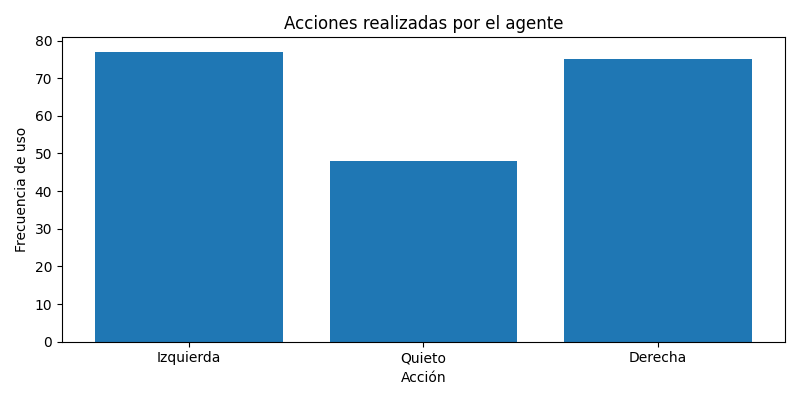
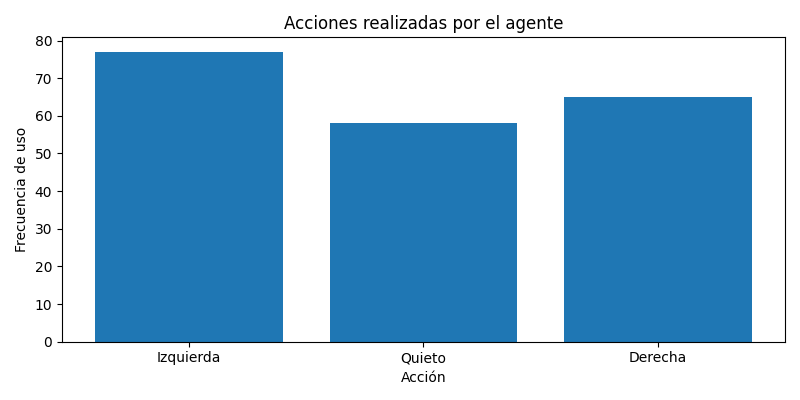
Se terminan y se revisan funconalidades

Changed region(s): [[0.4062, 0.3, 0.6562, 0.42], [0.6875, 0.15, 0.9375, 0.24]]

diff --git a/templates/indexAF.html b/templates/indexAF.html
@@ -10,7 +10,6 @@
 </head>
 
 <body class="bg-light">
-<body class="bg-light">
 
 <!-- Overlay de carga -->
 <div id="loadingOverlay" 
@@ -21,14 +20,6 @@
 </div>
 
 <div class="container py-5">
-
-    {% if mensaje %}
-    <div class="alert alert-success text-center mt-3">
-        {{ mensaje }}
-    </div>
-    {% endif %}
-
-
     <h1 class="mb-4 text-primary text-center">Caso práctico: Q-Learning en MountainCar</h1>
 
     <p class="text-center">
@@ -38,12 +29,11 @@
 
     <div class="text-center mb-4">
         <a href="/aprendizajeRF/entrenar" class="btn btn-primary" onclick="showLoader()">Entrenar agente</a>
-
         <a href="/aprendizajeRF/grafica" class="btn btn-success">Ver gráfica de recompensa</a>
         <a href="/aprendizajeRF/politica" class="btn btn-info">Probar política aprendida</a>
     </div>
 
-    {% if graph %}
+     {% if graph %}
     <div class="text-center mt-4">
         <h4>Movimientos realizados por el agente en la simulación</h4>
             <p class="text-center text-muted">
@@ -66,14 +56,13 @@
             </tr>
         </thead>
         <tbody>
-           {% for point in trajectory %}
+            {% for point in trajectory %}
 <tr>
     <td>{{ loop.index0 }}</td>
     <td>{{ point[0] }}</td>
     <td>{{ point[1] }}</td>
 </tr>
 {% endfor %}
-
         </tbody>
     </table>
     {% endif %}

diff --git a/app.py b/app.py
@@ -148,9 +148,6 @@ def af_mountaincar():
 
 
 # Acción: entrenar el agente
-# ============================================================
-# APRENDIZAJE POR REFUERZO - ENTRENAR
-# ============================================================
 @app.route('/aprendizajeRF/entrenar')
 def af_entrenar():
     train_mountaincar()      # Entrenar el modelo
@@ -165,24 +162,20 @@ def af_entrenar():
     )
 
 
-# Acción: mostrar gráficaz
+# Acción: mostrar gráfica
 @app.route('/aprendizajeRF/grafica')
 def af_grafica():
-    import os
     import matplotlib.pyplot as plt
-
-    global reward_history
-    load_reward_history()  # ESTA ES LA LÍNEA QUE FALTABA
+    import os
 
     if not reward_history:
-        mensaje = "Aún no has entrenado el modelo."
+        return render_template('indexAF.html', graph=None, trajectory=None)
 
-    # Crear gráfica
     plt.figure(figsize=(8, 4))
     plt.plot(reward_history)
     plt.xlabel("Episodios")
     plt.ylabel("Recompensa acumulada")
-    plt.title("Evolución del aprendizaje")
+    plt.title("Evolución de la recompensa por episodio")
 
     os.makedirs('static', exist_ok=True)
     filepath = os.path.join('static', 'reward_plot.png')
@@ -193,13 +186,10 @@ def af_grafica():
 
     graph_url = url_for('static', filename='reward_plot.png')
 
-    return render_template(
-        'indexAF.html',
-        graph=graph_url,
-        trajectory=None
-    )
+    return render_template('indexAF.html', graph=graph_url, trajectory=None)
 
 
+# Acción: probar la política aprendida
 # Acción: probar la política aprendida
 @app.route('/aprendizajeRF/politica')
 def af_politica():
@@ -236,7 +226,6 @@ def af_politica():
         trajectory=trajectory,
         action_count=action_count
     )
-
 
 
 @app.route('/index')

diff --git a/MountainCarQLearning.py b/MountainCarQLearning.py
@@ -48,9 +48,7 @@ reward_history = []
 # ENTRENAMIENTO Q-LEARNING
 # ============================================================
 def train_mountaincar():
-    global Q_table, epsilon, reward_history
-
-    reward_history = []   # Reiniciar solo al entrenar
+    global Q_table, epsilon
 
     for episode in range(episodes):
 
@@ -63,6 +61,7 @@ def train_mountaincar():
 
         while not (terminated or truncated):
 
+            # Política e-greedy
             if np.random.random() < epsilon:
                 action = env.action_space.sample()
             else:
@@ -81,18 +80,15 @@ def train_mountaincar():
 
         reward_history.append(total_reward)
 
+        # Reducir exploración
         if epsilon > epsilon_min:
             epsilon *= epsilon_decay
 
+    # Guardar Q-table
     with open("static/mountaincar_qtable.pkl", "wb") as f:
         pickle.dump(Q_table, f)
-        # Guardar histórico de recompensas
-    with open("static/reward_history.pkl", "wb") as f:
-        pickle.dump(reward_history, f)
-
 
     return reward_history
-
 
 
 # ============================================================
@@ -105,15 +101,6 @@ def load_model():
             Q_table = pickle.load(f)
         return True
     return False
-
-def load_reward_history():
-    global reward_history
-    if os.path.exists("static/reward_history.pkl"):
-        with open("static/reward_history.pkl", "rb") as f:
-            reward_history = pickle.load(f)
-        return True
-    return False
-
 
 
 # ============================================================
